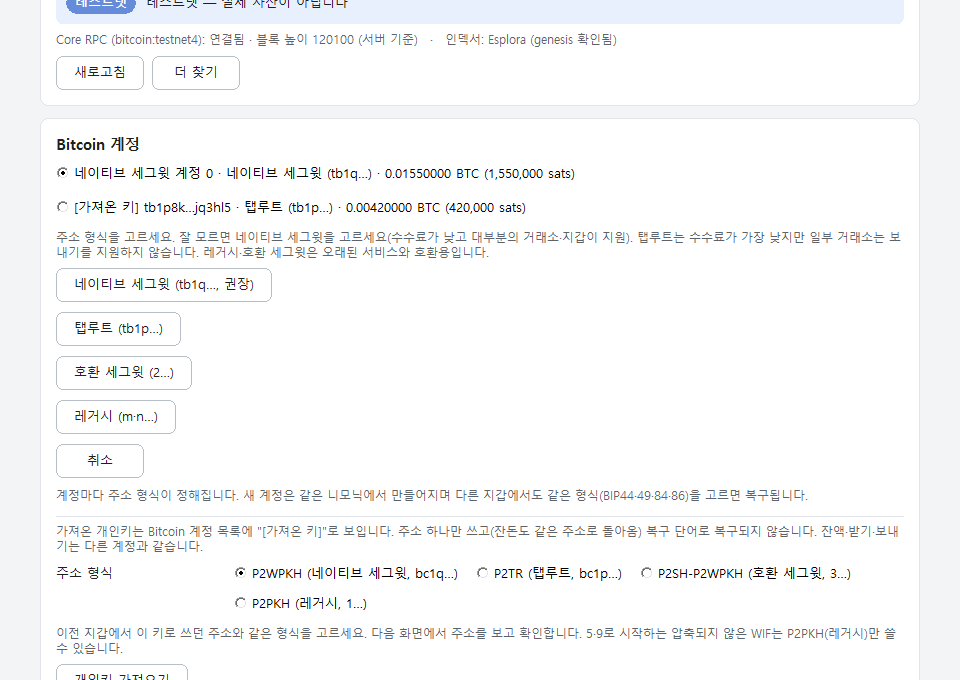
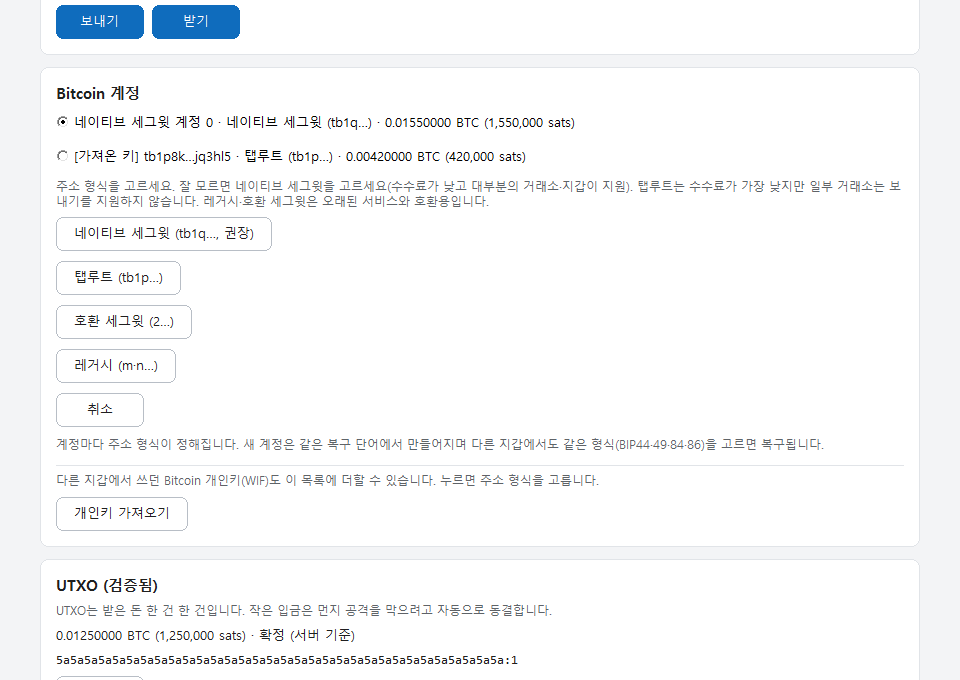
docs(ux): UX review 2026-10-31 and refreshed screen tour
Findings ranked by user impact with fixed/deferred status (deferred: approval
origin label bound to golden digests, plain-send caution, single-account
duplication, Bitcoin message-window tour scene). Screenshots 11, 16, 18, 19,
22-25 retaken; 26 connect window, 27 Solana message signing, 29 Solana/Bitcoin
site cards added; README links the review and the tour.

diff --git a/docs/ux-review-20261031.md b/docs/ux-review-20261031.md
@@ -1,0 +1,74 @@
+# UI/UX 검토 — 2026-10-31
+
+대상: main fe22172(개인키 가져오기·키 전용 지갑, Bitcoin 주소 형식, Solana·Bitcoin dApp 메시지 서명, EVM·SOL·BTC 호환 모드, 확인 1 = 확정, `지금 다시 전송`, 보안 띠가 모두 들어간 상태)의 주 창·승인 창·확장 팝업. 기준 사용자는 "지갑을 혼자 쓰는, 전문가는 아닌 주인 한 명"이다.
+방법: 화면 투어(`scripts/screenshot-tour.ps1`, 버리는 임시 데이터 폴더)로 고치기 전 화면을 찍어 보고, spec/04·05·08과 UI 코드(`crates/yw-app/src/ui/*`, `app*.rs`, `extension/popup`, `extension/src/popup*.js`)를 대조했다. 투어가 찍지 않던 창(사이트 연결 창, Solana 메시지 서명 창, Solana·Bitcoin 연결이 있는 연결된 사이트)은 투어에 장면을 더해 확인했다. 이전 검토는 [ux-review-20261028.md](ux-review-20261028.md).
+원칙: 보안 동작은 바꾸지 않는다 — 승인 무장 지연(창이 앞에 나온 뒤 1초, 모든 클릭 계산), 체크박스 1개 + 2초 누르기, 비밀 창 캡처 제외, 복사 규칙, 위험 등급과 차단, 파괴적 동작의 확인 창, 주소를 줄이지 않는 규칙, digest에 묶인 표시 문구. 보안 단계가 불편하면 없애지 않고 아래 "남긴 것"에 대안을 적었다.
+
+## 1. 결과 요약 (사용자 영향 순)
+
+| # | 영향 | 문제 | 상태 | 화면 |
+|---|---|---|---|---|
+| F1 | 높음 | **보이지 않는 버튼.** 한 화면에 같은 명령 id를 쓴 컨트롤이 둘이면 두 번째는 그려지지 않는다(yw-win 소유자 그리기는 (부모, id)로 첫 컨트롤만 찾고, 다른 hwnd의 `WM_DRAWITEM`은 처리하지 않는다). EVM 보내기의 `다른 계정으로 바꾸기 (메인)` 링크(`← 메인으로`와 같은 id) 자리가 빈칸이었고, 설정 → Bitcoin의 `네트워크(RPC) 설정으로` 버튼(구역 탭 `네트워크(RPC)`와 같은 id)도 보이지 않았다. | 이번에 고침 | 11 |
+| F2 | 높음 | **Bitcoin 탭에서 보내기·받기가 화면 밖.** 다른 탭은 네트워크 → 선택 계정(큰 잔액·보내기·받기) → 내 계정 순서인데 Bitcoin만 계정 목록과 개인키 가져오기 구역이 먼저 와서, 가장 자주 쓰는 잔액·보내기·받기가 스크롤 아래에 있었다. | 이번에 고침 | 16, 25 |
+| F3 | 높음 | **확장 팝업.** (a) 투어의 팝업 미리보기가 옛 마크업이라 `popup.js`가 Solana 카드 id에서 멈춰 상태·모드가 빈 화면으로 찍혔다(문서의 19번은 10-28 사진). (b) 실제 팝업은 경고 세 개(MetaMask·Rabby / Phantom / UniSat·Xverse)를 모드와 상관없이 늘 보였다 — 다 꺼 둔 사용자에게도 노란 띠 세 개라, 정작 호환 모드를 켰을 때의 경고가 눈에 띄지 않는다. (c) Solana·Bitcoin 모드를 바꿔도 "저장했습니다"가 EVM 카드에 떴다. (d) EVM 카드 제목이 그냥 "dApp에 보이는 지갑"이라 아래 "Solana dApp에 보이는 지갑"과 구분이 약했다. | 이번에 고침 | 19 |
+| F4 | 중간 | **메시지 서명 창의 엉뚱한 카드.** Solana 메시지 서명(`sol_signMessage`·`sol_signIn`)과 Bitcoin 메시지 서명 창에 "자산 변화 (시뮬레이션 결과) — 시뮬레이션 결과가 없어 자산 변화를 표시할 수 없습니다"가 나왔다(EVM `personal_sign`에서는 10-28에 없앤 혼란). 아래 링크도 "자세히 (수수료 계산·nonce·원본 데이터)"로 메시지와 맞지 않았다. | 이번에 고침 | 27 |
+| F5 | 중간 | **Bitcoin testnet4 띠 두 겹.** 주황 `BITCOIN TESTNET4 — 가치 없음` 바로 아래 파랑 `테스트넷 — 실제 자산이 아닙니다`가 같은 말을 반복했다(메인·보내기·받기·결과 모두). 띠 피로의 대표 사례. | 이번에 고침 | 16 |
+| F6 | 중간 | **Bitcoin 계정 카드가 늘 길다.** 드물게 쓰는 "개인키 가져오기"의 설명 두 문단 + 주소 형식 라디오 4개 + 버튼이 계정 목록 밑에 항상 펼쳐져 있었다(`계정 추가`는 눌러야 펼쳐지는데). | 이번에 고침 | 16, 25 |
+| F7 | 중간 | **주소 형식 이름이 화면마다 다름.** `계정 추가`는 `네이티브 세그윗 (tb1q…, 권장)`인데 개인키 가져오기·개인키로 시작하기는 `P2WPKH (네이티브 세그윗, bc1q…)`처럼 기술 이름이 앞에 왔다. | 이번에 고침 | 24 |
+| F8 | 중간 | **연결된 사이트(세 체인).** 같은 사이트가 EVM·Solana·Bitcoin에 연결되면 제목이 같은 카드 세 개가 이어져 "네트워크" 줄을 읽어야 구분됐다. Solana 계정은 라벨 없이 공개키만, 맨 위 설명은 "선택한 계정의 주소, 잔액, 거래 기록"이라 Solana·Bitcoin(주소만)과 맞지 않았다. | 이번에 고침 | 18, 29 |
+| F9 | 낮음 | **키보드.** 단축키는 Ctrl+L(잠금)뿐이고 체인 탭은 마우스로만 바꿀 수 있었다. 단축키 목록도 어디에도 없었다. | 이번에 고침 | — |
+| F10 | 낮음 | Bitcoin 계정 도움말에 남은 "니모닉"(다른 곳은 "복구 단어"). | 이번에 고침 | 16 |
+| D1 | 중간 | 앱에서 시작한 EVM·Solana 승인 창의 요청 출처가 `Your Wallet 앱 (yw-app)` — 내부 실행 파일 이름이 보이고, Bitcoin은 `Your Wallet (이 앱)`이라 체인마다 다르다. | 남김(아래) | 12, 21 |
+| D2 | 중간 | dApp의 단순 송금에도 "주의: 보내는 자산만 있고 받는 자산이 없습니다"가 붙는다. 대부분의 보내기에서 늘 보이는 주의 띠는 경고 피로를 만든다. | 남김(아래) | 22 |
+| D3 | 낮음 | EVM·Solana 메인에서 계정이 하나뿐이면 선택 계정 카드와 "내 계정" 카드가 같은 이름·주소·잔액을 두 번 보인다. | 남김(아래) | 10, 15 |
+| D4 | 낮음 | Bitcoin 메시지 서명 창은 투어로 찍지 못했다. | 남김(아래) | — |
+
+좋았던 점(바꾸지 않음): 첫 화면의 세 갈래(새로 만들기 / 복구 단어 / 개인키만)가 카드 제목 한 줄로 바로 구분되고 주 버튼이 하나다(01). 만들기·가져오기·개인키 흐름 모두 1·2·3 단계 표시가 같다(02, 07, 24). 승인 창은 맨 위 한 문장 요약 + 전체 주소 + 주소록 주석 → 경고 → 핵심 정보 순서가 체인마다 같다(12, 21, 27). 연결 창은 계정 체크와 현재 네트워크만 보여 단순하다(26). 빈 상태 문구는 모두 다음 행동을 말한다.
+
+## 2. 고친 것 (전 → 후)
+
+- **F1 보이지 않는 버튼**: `다른 계정으로 바꾸기 (메인)`(새 id `SWITCH_ACCOUNT` 201)과 `네트워크(RPC) 설정으로`(새 id `GO_NETWORK` 205)에 고유 id를 주고 동작은 같게 했다. 시험 `every_screen_has_unique_control_ids`가 세 체인 탭 × 주요 화면 24개(메인, 보내기·결과·받기 세 체인, 주소록, 토큰·체인 추가, 연결된 사이트, 설정 7구역, 완료)에서 id가 겹치지 않음을 확인한다. 11번: 빈칸 → 링크가 보인다.
+- **F2 Bitcoin 탭 순서**: 네트워크 카드 → 선택 계정 카드(이름·노드·큰 사용 가능 잔액·`보내기`·`받기`) → "Bitcoin 계정" → UTXO → 활동. 키 전용 지갑에 Bitcoin 키가 아직 없으면 지금처럼 계정 카드만. 16번: 보내기·받기가 첫 화면에 보인다.
+- **F3 확장 팝업**: 계열마다 실제 확장을 끄라는 경고는 그 계열의 모드가 `off`가 아닐 때만 보이고(라디오를 바꾸면 즉시), 저장 결과 줄은 그 카드 안(`mode-saved`·`sol-saved`·`btc-saved`)에 나온다. Solana·Bitcoin 공통 안내("연결과 메시지 서명만")는 두 카드 앞의 한 줄로 옮겼다. EVM 카드 제목은 앱 탭과 같은 "EVM (이더리움 등) dApp에 보이는 지갑". 미리보기(`scripts/popup-preview.html`)는 `popup.html`의 `<body>`와 같게 맞추고 새 시험 `scripts/popup-preview.test.mjs`가 둘이 다르면 실패한다. 투어는 팝업 전체가 보이도록 340×1160으로 찍는다(실제 Chrome 팝업은 600px 높이에서 스크롤). 19번: 빈 카드 두 개 → 세 계열 모두 보이고 경고는 켠 계열(MetaMask) 하나.
+- **F4 메시지 서명 창**: Solana·Bitcoin 메시지 서명에는 "자산 변화" 카드가 없다(EVM 메시지 서명과 같은 규칙). 접힌 상세 링크는 모든 종류에 맞는 "자세히 ▸ (나머지 항목·원본 데이터)". 표시 모델·digest는 그대로이고 그리는 쪽(`approval_view`)만 바뀌었다. 27번.
+- **F5 띠 한 겹**: Bitcoin testnet4는 전용 주황 배너만 그린다(메인·보내기·받기·결과·수수료 올리기). 메인넷 배너와 EVM·Solana 테스트넷 띠는 그대로.
+- **F6 가져오기 접기**: 계정 카드에는 한 줄 "다른 지갑에서 쓰던 Bitcoin 개인키(WIF)도 이 목록에 더할 수 있습니다. 누르면 주소 형식을 고릅니다." + `개인키 가져오기`. 누르면 `계정 추가`처럼 같은 자리에 설명·형식 라디오·`다음 (개인키 입력)`·`취소`가 열린다. 클릭이 한 번 늘지만 드문 작업이고, 매일 보는 카드가 짧아진다. 키 전용 지갑의 빈 Bitcoin 카드(가져오기가 유일한 행동)는 처음부터 라디오를 보인다.
+- **F7 주소 형식 이름**: 쉬운 이름 → 접두 → 기술 이름 순서 `네이티브 세그윗 (bc1q…, P2WPKH)`·`탭루트 (bc1p…, P2TR)`·`호환 세그윗 (3…, P2SH-P2WPKH)`·`레거시 (1…, P2PKH)`(S18 라디오, Bitcoin 탭 가져오기, S19 "주소 형식" 줄). 승인 창의 Bitcoin 표시(digest 안)는 바꾸지 않았다.
+- **F8 연결된 사이트**: 카드 제목 `https://app.example.org  ·  Solana`처럼 origin 전체 뒤에 계열, 맨 위에 `연결 EVM 2곳 · Solana 1곳 · Bitcoin 1곳`, Solana 연결에 계정 라벨, 설명을 "아래 계정의 주소를 볼 수 있고, EVM 사이트는 잔액과 거래 기록도 읽을 수 있습니다…"로. 18·29번.
+- **F9 단축키**: Ctrl+1/2/3 = EVM·Solana·Bitcoin 탭(주 창이 앞에 있고 S10이며 비밀 창이 없을 때만, 탭을 누른 것과 같은 경로). 설정 → 브라우저·진단·정보 → "정보" 카드에 "단축키" 줄(Ctrl+L 잠금 · Ctrl+1/2/3 체인 탭 · Tab 다음 칸).
+- **F10 용어**: "같은 니모닉에서" → "같은 복구 단어에서".
+- **투어 장면 추가**: 26 사이트 연결 창(EVM), 27 Solana 메시지 서명 창, 29 연결된 사이트의 Solana·Bitcoin 카드.
+
+## 3. 점검 항목별 결과
+
+- **첫 실행**: 세 갈래가 분명하다. "개인키만 있습니다" 카드가 복구 단어가 없다는 점을 본문에 말한다. 바꾸지 않음.
+- **RPC 설정 수고**: 완료 화면(06)이 왜 필요한지와 `RPC 설정하기`를 주고, 설정은 QuickNode 이름·토큰 두 칸(주소 전체 붙여넣기 가능) → `네트워크 URL 생성` 한 번으로 모든 네트워크가 채워진다(17). 공급자 계정을 만드는 일 자체는 앱 밖이라 줄일 수 없다.
+- **이동·클릭 수**: 받기 1번(메인 → `받기`), 보내기 3번(보내기 → 입력 → `검토` → 승인 창), 활동은 메인 아래, 연결 1번 + 승인. Bitcoin은 F2 전까지 스크롤이 더 필요했다. 탭 전환은 이제 키보드로도 된다.
+- **정보 밀도·위계**: 큰 잔액·주 버튼 2개·보조 버튼 구분은 잘 지켜진다. 계정이 하나일 때의 중복(D3)과 Bitcoin 탭의 가져오기 구역(F6)이 밀도를 높였다.
+- **용어**: "복구 단어(니모닉)" 첫 언급 규칙, "가져온 키" 배지, "확정"이 일관된다. 남은 "니모닉"은 오류 문구(§7, 코드 고정)와 로그·AI 고지(무엇을 보내지 않는지 나열) 뿐이다. 주소 형식 이름은 F7로 통일.
+- **오류의 다음 단계**: 엔드포인트 없음은 `설정에서 URL 입력`, Bitcoin 꺼짐은 `Bitcoin 설정`, 차단 체인은 `설정에서 다시 고정`으로 이어진다. §7 문구 자체에 다음 단계를 붙이는 작업은 10-28 검토에서처럼 별도 변경으로 남는다.
+- **빈 상태**: 활동·토큰·사이트·주소록·키 전용 지갑의 빈 탭 모두 다음 행동을 말한다.
+- **경고 피로**: F3(팝업 세 띠), F5(Bitcoin 두 겹)를 줄였다. D2는 위험 판단 코드라 남겼다. 메인넷 빨간 띠와 테스트넷 띠는 체인마다 하나라 그대로 둔다.
+- **승인 창 가독성**: 출처(헤더 첫 줄) · 무엇을(요약 한 문장) · 위험(띠·태그)이 한눈에 들어온다. 메시지 서명의 혼란(F4)을 없앴다. 출처 문구(D1)만 남았다.
+- **확장 팝업**: F3. 호환 모드가 무엇인지는 모드 카드 설명 한 줄로 충분하고, 실제 지갑 경고는 이제 켤 때 나타나 의미가 분명해졌다.
+- **연결된 사이트 (세 체인)**: F8. 계열별 해제는 카드의 `연결 해제`, 전체는 맨 아래 `모든 사이트 연결 해제`(확인 창 유지).
+- **설정 구성**: 구역 탭 7개(보안·네트워크(RPC)·EVM 체인·Solana·Bitcoin·AI 설명·브라우저·진단·정보)와 카드별 도움말은 10-28 그대로 충분하다. F1의 Bitcoin 구역 버튼이 다시 보인다.
+- **키보드·포커스**: Tab 이동(`IsDialogMessageW`)과 포커스 링, 승인 창의 Tab·Enter·Space·Esc·PgUp/PgDn은 있다. F9로 탭 단축키를 더했다.
+- **DPI**: 모든 크기는 DIP이고 투어는 100%(96 DPI)에서 찍었다. 125–200%는 여전히 수동 확인 항목이다(잘림·겹침은 100%에서 보이지 않았다).
+- **잘림**: 주소·해시는 줄이지 않고 줄바꿈한다. 팝업 Bitcoin 설명 `sats-connect(Xverse)`도 줄바꿈된다.
+- **버튼 일관성**: 화면마다 주 버튼 하나(체인 탭은 `보내기`·`받기`), 위험 버튼은 삭제·연결 해제·폐기. F6의 `다음 (개인키 입력)`은 열린 선택지의 주 버튼이다.
+- **다크/라이트**: 라이트 전용(spec/04 §1.6, 팝업도 같은 토큰). 바꾸지 않음.
+
+## 4. 남긴 것과 이유·대안
+
+- **D1 요청 출처 `Your Wallet 앱 (yw-app)`**: 이 문구는 yw-core 표시 모델(`evm/display` 헤더, `sol/display`)에서 만들어 **approval digest에 묶이고**, `crates/yw-app/tests/approval_golden.rs`가 표시 바이트·digest를 고정한다. 문구 하나 때문에 골든을 다시 고정하는 것은 보안 검토가 함께 봐야 할 변경이다. 제안: Bitcoin과 같은 `Your Wallet (이 앱)`으로 세 체인을 맞추고, 같은 커밋에서 V14 골든을 기록 절차(`print_v14_goldens`, 독립 재계산 확인)대로 다시 고정한다.
+- **D2 단순 송금의 "보내는 자산만 있고 받는 자산이 없습니다"**: 시뮬레이션 해석(yw-core `evm::simulate` 경고)이 정하는 위험 경고라 이번 범위(보안 동작 약화 금지) 밖이다. 제안: calldata가 없는 네이티브 전송이고 자산 변화가 "보냄 {금액}" 한 줄과 정확히 같으면 이 경고를 `정보` 등급으로 내리거나 요약 문장에 합친다(토큰 승인·스왑처럼 받는 것이 기대되는 호출에는 지금처럼 `주의`).
+- **D3 계정 하나일 때의 중복**: "내 계정" 카드는 계정 추가·이름 바꾸기·가져오기의 자리이기도 해서 숨기면 기능을 찾기 어려워진다. 제안: 계정이 하나면 그 카드에서 주소·잔액 줄을 빼고 이름과 버튼만 남긴다(선택 계정 카드가 이미 보임). 화면 시험 여러 개가 행 구성을 고정하므로 별도 변경으로.
+- **D4 Bitcoin 메시지 서명 창 장면**: 투어에서 Solana 메시지 창을 거부한 직후 같은 origin의 `btc_signMessage`를 넣으면 창이 열리지 않았다(초안 생성·grant·preflight 조건은 모두 통과함을 확인). 투어 하네스가 창을 닫는 방식(`finish_approval` 직접 호출) 때문인지, 실제 큐의 동작인지는 확인하지 못했다. 실제 앱에서 "Solana 메시지 거부 → 바로 Bitcoin 메시지 요청"을 수동으로 확인할 항목으로 남긴다.
+- **승인 무장 지연(1초)**: 그대로 둔다. 회색 `승인`이 왜 회색인지 모를 수 있으니, 대안으로 무장 전 상태 줄에 "잠시 뒤 승인할 수 있습니다"를 보이는 것을 제안한다(무장 시간·계산은 그대로).
+- **§7 오류 문구의 다음 단계, 125–200% DPI 시각 확인, 버튼 hover 표시**: 10-28 검토에서 남긴 그대로.
+- **팝업 길이**: 세 계열 카드가 모두 보이면 600px 팝업에서 스크롤이 필요하다. 대안: `off`인 Solana·Bitcoin 카드를 한 줄 요약으로 접기. 이번에는 경고를 줄여 길이를 먼저 줄였다.
+
+## 5. 바뀐 화면 (docs/screenshots)
+
+다시 찍음: 11(링크 보임), 16(Bitcoin 순서·띠 한 겹·가져오기 접힘), 18(연결 개수 줄·계열 제목), 19(팝업 전체), 22·23(같은 화면, AI 응답 경과 시간·포트만 다름), 24(주소 형식 이름), 25(계정 추가 선택지, 새 순서에 맞춘 스크롤). 새로: 26(사이트 연결 창), 27(Solana 메시지 서명 창), 29(연결된 사이트 — Solana·Bitcoin). 나머지는 바이트까지 같다.

diff --git a/docs/screenshots/README.md b/docs/screenshots/README.md
@@ -1,12 +1,12 @@
-# 화면 투어 (2026-10-29, 개인키 가져오기·Bitcoin 주소 형식 통합 후 다시 찍음)
+# 화면 투어 (2026-10-31, UX 검토 반영 후 다시 찍음)
 
-완성된 지갑의 주요 화면과 창입니다. `scripts/screenshot-tour.ps1`이 만듭니다(spec/04 §11, 개발 전용). 바뀐 점과 이유는 [UX 검토](../ux-review-20261028.md)에 있습니다.
+완성된 지갑의 주요 화면과 창입니다. `scripts/screenshot-tour.ps1`이 만듭니다(spec/04 §11, 개발 전용). 바뀐 점과 이유는 [UX 검토 10-31](../ux-review-20261031.md)(이전: [10-28](../ux-review-20261028.md))에 있습니다.
 
 - 모든 값은 시험용입니다. 버리는 임시 데이터 폴더만 쓰고 실제 지갑 폴더(`%LOCALAPPDATA%\YourWallet`)는 건드리지 않았습니다.
 - 새 지갑 만들기 화면의 단어는 누구나 아는 BIP39 **공개 시험 벡터**(엔트로피 0, 24단어)이고, 메인 화면은 공개 시험 니모닉(`abandon` × 11 + `about`) 지갑입니다. 이 단어들로 만든 지갑에 실제 자산을 두면 안 됩니다.
 - 잔액·토큰 잔액·연결된 사이트·UTXO·RPC 주소는 지어낸 값이며 네트워크에 연결하지 않았습니다. Bitcoin 탭의 가져온 키 계정(16·25)은 BIP84 공개 시험 벡터의 **공개키**만 써서 만든 testnet4 탭루트 계정이고(개인키 없음), 그 잔액도 지어낸 값입니다. 승인 창은 저장소의 고정 시뮬레이션 응답(EVM)과 투어 안의 고정 Solana 응답(토큰)으로 준비했습니다.
 - AI 설명 화면(22·23)은 투어가 직접 띄운 이 PC의 가짜 AI 서버(`http://127.0.0.1:<임의 포트>/v1/chat/completions`, 고정 답 1개)에 연결했습니다. 외부 AI 공급자·API 키는 쓰지 않았고, 설명 문장은 지어낸 것입니다.
-- 이번에 다시 찍은 것: 01·05·07·15·16·22·23(바뀐 문구·카드), 새로 24·25. 19(확장 팝업)는 확장이 바뀌지 않아 다시 찍지 않았습니다(`-SkipPopup`).
+- 이번에 다시 찍은 것: 11·16·18·19·24·25(바뀐 화면), 22·23(같은 화면, AI 응답 경과 시간만 다름), 새로 26·27·29. 연결된 사이트(18·29)의 Solana·Bitcoin 연결과 메시지 서명 창(27)은 투어 프로세스의 브라우저 코어에만 넣은 지어낸 연결이며, 아무것도 서명하지 않았습니다.
 - 화면 크기는 100%(96 DPI) 기준입니다. 비밀 창(03–05, 09)은 실제로는 화면 캡처에서 제외되며, 투어 프로세스가 직접 만든 창에 한해 캡처 직전에 제외를 풀었습니다.
 
 | 파일 | 설명 |
@@ -21,18 +21,21 @@
 | [08-locked.png](08-locked.png) | 잠금 화면 — 언제 자동으로 잠기는지 함께 보입니다. |
 | [09-unlock-password.png](09-unlock-password.png) | 잠금 해제 창 — 비밀번호 입력. |
 | [10-main-evm.png](10-main-evm.png) | 메인(EVM, Sepolia) — 큰 잔액과 보내기·받기, 네트워크 칩, 내 계정. |
-| [11-send.png](11-send.png) | 보내기 — 보내는 계정 / 받는 사람(주소록 확인됨) / 금액, 예상 최대 수수료. |
+| [11-send.png](11-send.png) | 보내기 — 보내는 계정(링크 `다른 계정으로 바꾸기 (메인)`) / 받는 사람(주소록 확인됨) / 금액, 예상 최대 수수료. |
 | [12-approval-simulated.png](12-approval-simulated.png) | 승인 창(시뮬레이션 성공) — 맨 위 한 문장 요약과 받는 주소 전체, 자산 변화, 핵심 정보. `승인`은 창이 앞에 나온 뒤 1초가 지나야 켜지므로 여기서는 회색입니다. |
 | [13-approval-no-simulation.png](13-approval-no-simulation.png) | 승인 창(시뮬레이션 결과 없음) — 고위험 띠, 확인 체크박스 1개, 2초 길게 누르기. |
 | [14-receive.png](14-receive.png) | 받기 — QR 종류 선택(`지갑 앱용 QR (네트워크 포함)` 기본 / `주소만 QR (거래소 앱용)`), QR, 4자씩 끊은 전체 주소, 주소 복사. 카드 아래(화면 밖)에 같은 주소가 다른 EVM 체인에서도 쓰인다는 안내가 있습니다. |
 | [15-main-solana.png](15-main-solana.png) | 메인(Solana devnet) — 같은 배치, 주소 가운데 묶음 굵게. 큰 SOL 잔액 아래 허용 목록 토큰(USDC) 한 줄 요약(자세한 행은 아래 "토큰" 카드). "내 Solana 계정"에 '가져온 키' 계정은 복구 단어로 복구되지 않는다는 안내(아래 화면 밖에 `개인키 가져오기`). |
-| [16-main-bitcoin.png](16-main-bitcoin.png) | 메인(Bitcoin testnet4) — 네트워크 배너와 연결 상태, "Bitcoin 계정" 목록(`네이티브 세그윗 계정 0`과 배지가 붙은 가져온 키 계정 `[가져온 키] tb1p8k…jq3hl5 · 탭루트 (tb1p…)`, 계정마다 사용 가능 잔액), `계정 추가`, 그 아래 가져온 키 안내·주소 형식 라디오·`개인키 가져오기`. 화면 밖 아래에 선택 계정의 잔액·보내기·받기, 검증된 UTXO, 활동. |
+| [16-main-bitcoin.png](16-main-bitcoin.png) | 메인(Bitcoin testnet4) — 다른 탭과 같은 순서: 네트워크 카드(주황 `BITCOIN TESTNET4 — 가치 없음` 배너 하나, 연결 상태, `새로고침`·`더 찾기`) → 선택 계정 카드(큰 사용 가능 잔액, `보내기`·`받기`) → "Bitcoin 계정" 목록(`네이티브 세그윗 계정 0`과 가져온 키 계정 `[가져온 키] tb1p8k…jq3hl5 · 탭루트 (tb1p…)`), `계정 추가`. 화면 밖 아래에 한 줄 안내와 `개인키 가져오기`(누르면 주소 형식 선택이 열림), 검증된 UTXO, 활동. |
 | [17-settings-rpc.png](17-settings-rpc.png) | 설정 → 네트워크(RPC) — RPC가 무엇인지, 입력 칸마다 어디서 찾는 값인지 설명. QuickNode 대시보드의 엔드포인트 주소 전체를 이름 칸이나 토큰 칸에 붙여넣어도 됩니다. |
-| [18-sites.png](18-sites.png) | 연결된 사이트 — 사이트마다 볼 수 있는 계정과 연결 해제. |
-| [19-extension-popup.png](19-extension-popup.png) | 크롬 확장 팝업 — 앱 연결 상태와 dApp에 보이는 지갑(호환 모드) 선택. 실제 Chrome 대신 미리보기 페이지로 찍었습니다. |
+| [18-sites.png](18-sites.png) | 연결된 사이트 — 맨 위 개수 줄(`연결 EVM 2곳 · Solana 1곳 · Bitcoin 1곳`), 카드 제목 `origin · 계열`, 사이트마다 네트워크·연결 시각·볼 수 있는 계정과 `연결 해제`. |
+| [19-extension-popup.png](19-extension-popup.png) | 크롬 확장 팝업 — 앱 연결 상태, "EVM (이더리움 등) dApp에 보이는 지갑"(MetaMask처럼 보이기 선택 → 그 계열의 실제 확장을 끄라는 경고), Solana·Bitcoin 공통 안내 한 줄, Solana·Bitcoin 카드(둘 다 기본/사용 안 함 → 경고 없음). 실제 Chrome 대신 미리보기 페이지로 찍었고, 전체가 보이도록 340×1160입니다(실제 팝업은 600px 높이에서 스크롤). |
 | [20-send-solana-usdc.png](20-send-solana-usdc.png) | Solana 보내기(v1.1) — `자산` 라디오에서 USDC를 고른 모습. 받는 사람은 지갑 주소(토큰 계정 주소가 아님)라는 안내와 보유 잔액·mint. |
 | [21-approval-solana-usdc.png](21-approval-solana-usdc.png) | Solana 토큰 승인 창(devnet USDC) — 요약 문장과 받는 지갑 주소, 금액·mint·토큰 프로그램·보내는·받는 토큰 계정(ATA) 전체, 받는 토큰 계정이 없어 만드는 비용(rent)을 보내는 쪽이 낸다는 안내. 고정 응답으로 준비했고 서명하지 않았습니다. |
 | [22-approval-ai-explain.png](22-approval-ai-explain.png) | 승인 창 + AI 설명(M6, 선택 기능) — dApp(`https://app.example.org`)의 0.01 SepoliaETH 보내기. 코어 표시(요약·자산 변화·경고·핵심 정보)는 그대로이고, 버튼 바로 위 별도 보라색 패널 "AI 설명 (참고용, 틀릴 수 있음)"에 검증을 통과한 설명·지갑이 다시 만든 동작 줄(`보냄 · SepoliaETH 0.01 · 보낸 주소 → 받는 주소`)·AI가 판단하지 못한 것·`호스트 · 모델 · 경과 초`가 보입니다. 패널 높이는 창을 열 때 미리 확보하므로 설명이 와도 버튼 위치가 바뀌지 않고, `승인`은 AI 결과와 무관합니다(창이 앞에 나온 뒤 1초가 지나야 켜지므로 여기서는 회색). |
 | [23-settings-ai.png](23-settings-ai.png) | 설정 → AI 설명 — 기본 꺼짐, 켤 때 전송 내용 고지·동의, OpenAI 호환 엔드포인트(https 또는 이 PC의 로컬 http만)·모델·응답 형식·max_tokens, `연결 테스트`(지어낸 표본 요청 `0x…dEaD`로 형식만 확인) 성공 결과. 아래(화면 밖)에 API 키 카드(저장된 값은 다시 보이지 않음)가 있습니다. |
-| [24-key-start-bitcoin.png](24-key-start-bitcoin.png) | 개인키로 시작하기(S18) — 체인 `Bitcoin`, 주소 형식 라디오(`P2WPKH (네이티브 세그윗, bc1q…)`·`P2TR (탭루트, bc1p…)` 선택·`P2SH-P2WPKH (호환 세그윗, 3…)`·`P2PKH (레거시, 1…)`), 형식 고르기 안내, "이 지갑의 백업"(원래 개인키가 유일한 백업) 주의 띠. 다음은 비밀번호(W01) → 개인키 입력(W07) → 주소 확인(S19). |
-| [25-bitcoin-account-types.png](25-bitcoin-account-types.png) | Bitcoin `계정 추가` — 계정 목록 아래 주소 형식 선택지(testnet4: `네이티브 세그윗 (tb1q…, 권장)`·`탭루트 (tb1p…)`·`호환 세그윗 (2…)`·`레거시 (m·n…)`)와 `취소`, 형식 고르기 도움말. 가져온 키 계정(`[가져온 키]`)도 같은 목록에 있습니다. |
+| [24-key-start-bitcoin.png](24-key-start-bitcoin.png) | 개인키로 시작하기(S18) — 체인 `Bitcoin`, 주소 형식 라디오(쉬운 이름 먼저: `네이티브 세그윗 (bc1q…, P2WPKH)`·`탭루트 (bc1p…, P2TR)` 선택·`호환 세그윗 (3…, P2SH-P2WPKH)`·`레거시 (1…, P2PKH)`), 형식 고르기 안내, "이 지갑의 백업"(원래 개인키가 유일한 백업) 주의 띠. 다음은 비밀번호(W01) → 개인키 입력(W07) → 주소 확인(S19). |
+| [25-bitcoin-account-types.png](25-bitcoin-account-types.png) | Bitcoin `계정 추가` — 계정 목록 아래 주소 형식 선택지(testnet4: `네이티브 세그윗 (tb1q…, 권장)`·`탭루트 (tb1p…)`·`호환 세그윗 (2…)`·`레거시 (m·n…)`)와 `취소`, 형식 고르기 도움말. 가져온 키 계정(`[가져온 키]`)도 같은 목록에 있고, 그 아래 접힌 `개인키 가져오기` 줄. |
+| [26-approval-connect.png](26-approval-connect.png) | 사이트 연결 창(EVM `eth_requestAccounts`, 새 사이트 `https://swap.example.org`) — 요청 출처, 볼 수 있는 것 안내, 연결할 계정 체크(1–16개)와 현재 네트워크. `연결`은 창이 앞에 나온 뒤 1초가 지나야 켜지므로 여기서는 회색입니다. |
+| [27-approval-sol-message.png](27-approval-sol-message.png) | Solana 메시지 서명 창(`sol_signMessage`, 연결된 `https://app.example.org`) — 요약 "메시지에 서명해 이 주소의 소유를 증명합니다. 거래 서명이나 전송은 하지 않습니다.", 정보 띠(소유 증명용), 핵심 정보에 메시지 텍스트 전체. 자산 변화 카드는 없습니다(메시지 서명). |
+| [29-sites-solana-bitcoin.png](29-sites-solana-bitcoin.png) | 연결된 사이트(아래로 스크롤) — 같은 사이트의 Solana 연결(계정 라벨 `Solana 1`과 공개키)과 Bitcoin testnet4 연결(결제용 네이티브 세그윗 주소, 오디널스용 탭루트 주소), 계열마다 `연결 해제`. |

diff --git a/README.md b/README.md
@@ -63,6 +63,8 @@ native host 등록은 `install.cmd`가 한다(spec/05 §9). 확장 소스를 고
 | [docs/install.ko.md](docs/install.ko.md) | 설치·업데이트·제거, 첫 실행(RPC), 파일 위치, 문제 해결 |
 | [docs/recovery-guide.ko.md](docs/recovery-guide.ko.md) | 백업·복구 안내 |
 | [docs/acceptance/](docs/acceptance/) | 체크리스트·라이브 확인 기록 |
+| [docs/screenshots/](docs/screenshots/) | 화면 투어(주요 화면·승인 창·확장 팝업, 시험용 값) |
+| [docs/ux-review-20261031.md](docs/ux-review-20261031.md) | 최근 UI/UX 검토(고친 것·남긴 것) |
 
 ## 보안 범위
 
